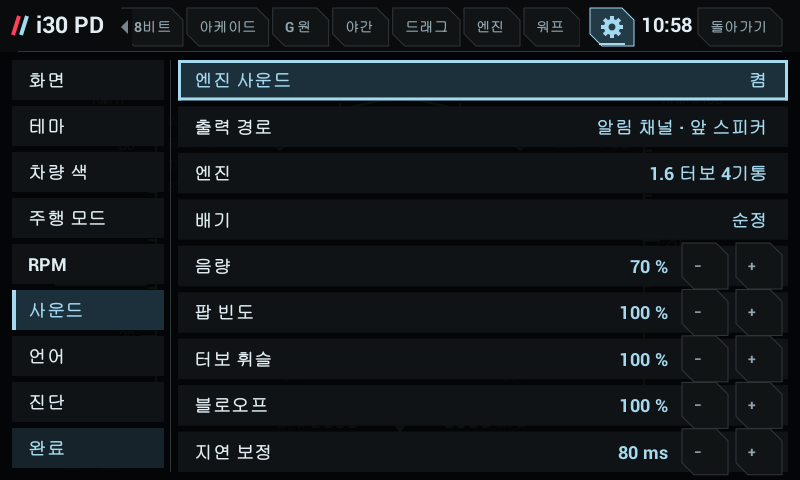
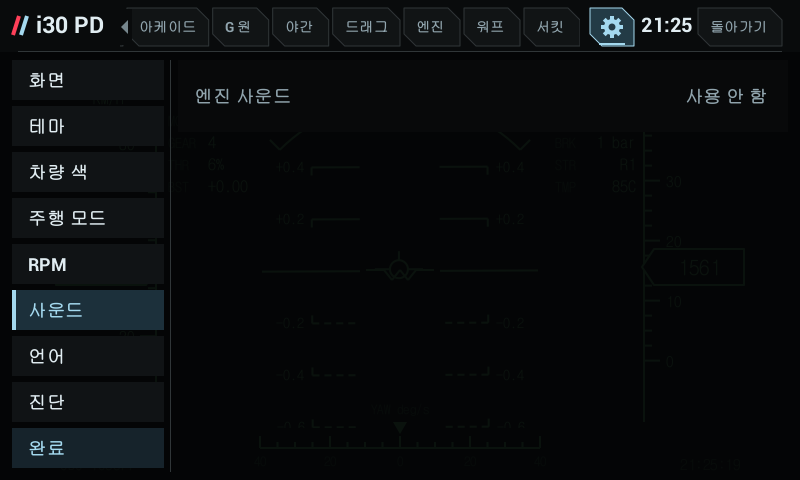
Diesel soot from 22 ED1D (Kia Ceed 2018 definition) leads the DPF tile; engine sound switched off
- ObdSchedule asks the engine 22 ED1D every 2 s (dropped after three misses on a petrol). Telemetry reads
  data [4..5] u16 x256/65535 as the soot load in g (new signal 68, DPF 포집량 / DPF SOOT), per OBDb's
  Kia-Ceed set, the only year (2018) it marks verified for these Hyundai diesel blocks. Tiles.dpfLead picks
  the DPF tile's big number: soot, else the regeneration trigger, else the delta pressure (race, engine,
  cluster tiles, F1). The probe also asks 22 ED06 (regeneration completed).
- The virtual engine sound is off (user): SettingsLayout.ENGINE_SOUND=false, the 사운드 pane is one dimmed
  "엔진 사운드 · 사용 안 함" line and a saved "on" no longer starts it. The code stays.

diff --git a/shared/src/com/veloster/vehicle/Telemetry.java b/shared/src/com/veloster/vehicle/Telemetry.java
@@ -10,6 +10,7 @@ public final class Telemetry {
     public static final int SPARK=42,BRAKE_SWITCH=43,STEER_TORQUE=44,DOOR_DRIVER=45,WIPER=46,DOOR_PASSENGER=47,TRUNK=48,HOOD=49,TURN_LEFT=50,TURN_RIGHT=51,SHIFT_HINT=52,HEAD_LAMP=53,TAIL_LAMP=54,HIGH_BEAM=55,CLUTCH=56,FUEL_LEVEL=57,CAT_TEMP=58,ABS_LOAD=59;
     public static final int DPF_DP=60,DPF_TEMP=61,DPF_REGEN=62,DPF_TRIGGER=63;   // diesel, standard OBD PIDs 0x7A/0x7C/0x8B
     public static final int DPF_SINCE_KM=64,DPF_AVG_KM=65;   // km since the last regeneration the app saw end; ECU average between regenerations
+    public static final int DPF_SOOT=68;   // diesel soot load, g: 22 ED1D (Kia Ceed CD 2018, the PD's sibling, in OBDb)
     public static final int CLUTCH_ODD=66,CLUTCH_EVEN=67;   // 7DCT clutch temperatures: #1 odd gears (1 3 5 7), #2 even gears (2 4 6 R); TCU 22 01A4
     /** DCT clutch heat for every screen: 0 normal, 1 warm (amber), 2 hot (red, the cell fills).
      *  ponytail: 150 / 180 °C are a guess (our car: 96 °C reversing after 11 min in town; owners report 145 in flat
@@ -20,8 +21,10 @@ public final class Telemetry {
     public static final int DID_CLUTCH=0x1A4;
     /** Sink key for the diesel engine's mode 22 DID ED03 reply (Hyundai DPF block; the standard DPF PIDs get no answer on a PD diesel). */
     public static final int DID_DPF=0xED03;
-    public static final String[] LABELS = {"엔진 회전수", "유온 (냉각수 대체)", "냉각수 온도", "앞 왼쪽 휠", "앞 오른쪽 휠", "뒤 왼쪽 휠", "뒤 오른쪽 휠", "차량 속도", "EMS 기어", "가속 페달", "브레이크 압력", "횡가속", "종가속", "조향각", "외기 온도", "출력 (계산)", "토크 (계산)", "부스트 (계산)", "앞 왼쪽 공기압", "앞 오른쪽 공기압", "뒤 왼쪽 공기압", "뒤 오른쪽 공기압", "TCS", "ESC", "ABS", "배터리 SOC", "배터리 전압", "조향 속도", "e-LSD 수치", "흡기 온도", "변속 레버", "주행거리", "엔진 부하", "요레이트", "주행 모드", "주차 브레이크", "스로틀 개도", "순간 연료소모", "주행가능거리", "평균 연비", "보정 토크", "마찰 토크", "점화 시기", "브레이크 스위치", "조향 토크", "운전석 문", "와이퍼", "조수석 문", "트렁크", "후드", "좌 방향지시등", "우 방향지시등", "변속 권장", "전조등", "미등", "상향등", "클러치 (수동)", "연료 잔량", "촉매 온도", "절대 부하", "DPF 차압", "DPF 온도", "DPF 재생", "DPF 재생 트리거", "DPF 재생 후 거리", "DPF 평균 재생 간격", "DCT 홀수단 클러치 온도", "DCT 짝수단 클러치 온도"};
-    public static final String[] UNITS = {"rpm", "°C", "°C", "km/h", "km/h", "km/h", "km/h", "km/h", "", "%", "bar", "G", "G", "°", "°C", "PS", "N·m", "bar", "psi", "psi", "psi", "psi", "", "", "", "%", "V", "°/s", "", "°C", "", "km", "%", "°/s", "", "", "%", "L/h", "km", "km/L", "%", "%", "°", "", "Nm", "", "", "", "", "", "", "", "", "", "", "", "", "%", "°C", "%", "kPa", "°C", "", "%", "km", "km", "°C", "°C"};
+    /** Sink key for 22 ED1D: the soot load (OBDb Kia-Ceed, verified there for 2018 only). */
+    public static final int DID_SOOT=0xED1D;
+    public static final String[] LABELS = {"엔진 회전수", "유온 (냉각수 대체)", "냉각수 온도", "앞 왼쪽 휠", "앞 오른쪽 휠", "뒤 왼쪽 휠", "뒤 오른쪽 휠", "차량 속도", "EMS 기어", "가속 페달", "브레이크 압력", "횡가속", "종가속", "조향각", "외기 온도", "출력 (계산)", "토크 (계산)", "부스트 (계산)", "앞 왼쪽 공기압", "앞 오른쪽 공기압", "뒤 왼쪽 공기압", "뒤 오른쪽 공기압", "TCS", "ESC", "ABS", "배터리 SOC", "배터리 전압", "조향 속도", "e-LSD 수치", "흡기 온도", "변속 레버", "주행거리", "엔진 부하", "요레이트", "주행 모드", "주차 브레이크", "스로틀 개도", "순간 연료소모", "주행가능거리", "평균 연비", "보정 토크", "마찰 토크", "점화 시기", "브레이크 스위치", "조향 토크", "운전석 문", "와이퍼", "조수석 문", "트렁크", "후드", "좌 방향지시등", "우 방향지시등", "변속 권장", "전조등", "미등", "상향등", "클러치 (수동)", "연료 잔량", "촉매 온도", "절대 부하", "DPF 차압", "DPF 온도", "DPF 재생", "DPF 재생 트리거", "DPF 재생 후 거리", "DPF 평균 재생 간격", "DCT 홀수단 클러치 온도", "DCT 짝수단 클러치 온도", "DPF 포집량"};
+    public static final String[] UNITS = {"rpm", "°C", "°C", "km/h", "km/h", "km/h", "km/h", "km/h", "", "%", "bar", "G", "G", "°", "°C", "PS", "N·m", "bar", "psi", "psi", "psi", "psi", "", "", "", "%", "V", "°/s", "", "°C", "", "km", "%", "°/s", "", "", "%", "L/h", "km", "km/L", "%", "%", "°", "", "Nm", "", "", "", "", "", "", "", "", "", "", "", "", "%", "°C", "%", "kPa", "°C", "", "%", "km", "km", "°C", "°C", "g"};
     public static final long STALE_MS = 60000; // UI freshness threshold, not an OEM timeout.
     public static final long HISTORY_MS=300000,HISTORY_STEP_MS=250;
     private final History[] history=new History[LABELS.length];
@@ -267,6 +270,9 @@ public final class Telemetry {
             // Hyundai diesel DPF block 62 ED 03 (OBDb Hyundai-i30, CC BY-SA 4.0, not yet seen on our side): data byte 36
             // differential pressure x4.31373 (hPa, so x0.431373 kPa), 38 exhaust temperature upstream of the DPF x4.7098 + 99 °C,
             // 45..48 distance since the last regeneration in metres. The ECU keeps that distance, so it beats our odometer count.
+            // 62 ED 1D (OBDb Kia-Ceed 2018): u16 at data bytes 4..5, x256/65535, read as grams (Hyundai's GDS shows soot in g;
+            // a newer Tucson NX4 tool reads the same bytes little-endian, so the raw reply in the log settles the order on a PD)
+            case DID_SOOT: if(n>=6)put(DPF_SOOT,u16(d,4)*256f/65535,true,now); break;
             case DID_DPF: if(n>=56){put(DPF_DP,(d[36]&255)*0.431373f,true,now);put(DPF_TEMP,(d[38]&255)*4.7098f+99,true,now);
                 put(DPF_SINCE_KM,(((long)u16(d,45)<<16)|u16(d,47))/1000f,true,now);} break;
             default: obd(pid,n>0?d[0]&255:0,n>1?d[1]&255:0,now);

diff --git a/shared/src/com/veloster/vehicle/Tiles.java b/shared/src/com/veloster/vehicle/Tiles.java
@@ -54,12 +54,12 @@ public final class Tiles {
         {10,43,35,22,23,24},
         {TIRES,18,19,20,21},
         {26,25,31,45,47,48,49,53,54,55,46,50,51},
-        {DPF,60,61,62,63,64,65}};
+        {DPF,68,60,61,62,63,64,65}};
     /** Whether this car has the signal: DPF only on a diesel, the clutch pedal only on a 6MT, the DCT clutch
      *  temperatures only on a DCT, no ignition timing on a diesel. */
     public static boolean available(int s,VehicleProfile p){
         boolean diesel=p.fuel==VehicleProfile.Fuel.DIESEL,mt=p.trans==VehicleProfile.Trans.MT;
-        if(s==DPF||s>=Telemetry.DPF_DP&&s<=Telemetry.DPF_AVG_KM)return diesel;
+        if(s==DPF||s>=Telemetry.DPF_DP&&s<=Telemetry.DPF_AVG_KM||s==Telemetry.DPF_SOOT)return diesel;
         if(s==Telemetry.CLUTCH)return mt;
         if(s==CLUTCH||s==Telemetry.CLUTCH_ODD||s==Telemetry.CLUTCH_EVEN)return !mt;
         if(s==Telemetry.SPARK)return !diesel;
@@ -91,7 +91,7 @@ public final class Tiles {
         "SOC","BATT","STEER RATE","E-LSD","INTAKE","SELECTOR","ODO","LOAD","YAW","MODE","PARK BRK","THROTTLE","FUEL FLOW","RANGE",
         "AVG","TQ CORR","TQ FRIC","SPARK","BRK SW","STR TORQUE","DOOR L","WIPER","DOOR R","TRUNK","HOOD","TURN L","TURN R","SHIFT",
         "HEADLAMP","TAIL","HIGH BEAM","CLUTCH","FUEL","CAT","ABS LOAD","DPF ΔP","DPF TEMP","DPF REGEN","DPF TRIG","DPF LAST","DPF AVG",
-        "CLUTCH ODD","CLUTCH EVEN"};
+        "CLUTCH ODD","CLUTCH EVEN","DPF SOOT"};
     public static String caption(int s){
         switch(s){case TIRES:return "TPMS";case CLUTCH:return "CLUTCH";case DPF:return "DPF";case CORNER_MIN_SPEED:return "BTM SPEED";case CORNER_MAX_LAT:return "PREV LAT G";}
         return s>=0&&s<CAPTION.length?CAPTION[s]:"—";
@@ -101,6 +101,11 @@ public final class Tiles {
         return Telemetry.UNITS[s];
     }
     /** The reading as text, "—" when there is none; on / off and gear style signals as their words. */
+    /** The DPF bundle's main reading: soot g (22 ED1D) when the engine gives it, else the regeneration trigger %
+     *  (01 8B), else the delta pressure kPa (ED03); the trigger ("—") when none has answered. */
+    public static int dpfLead(float soot,float trigger,float dp){
+        return !Float.isNaN(soot)?Telemetry.DPF_SOOT:!Float.isNaN(trigger)?Telemetry.DPF_TRIGGER:!Float.isNaN(dp)?Telemetry.DPF_DP:Telemetry.DPF_TRIGGER;
+    }
     public static String text(int s,float v){
         if(Float.isNaN(v))return "—";
         if(s<TIRES){String w=Telemetry.label(s,v);if(w!=null)return w;}
@@ -110,7 +115,7 @@ public final class Tiles {
         if(s==Telemetry.BOOST||s==11||s==12||s==CORNER_MAX_LAT)return "%+.2f";
         if(s==Telemetry.STEERING||s==Telemetry.STEER_TORQUE||s==Telemetry.YAW)return "%+.1f";
         String u=s>=TIRES?unit(s):Telemetry.UNITS[s];
-        if(s==10||"V".equals(u)||"L/h".equals(u)||"km/L".equals(u)||"kPa".equals(u))return "%.1f";
+        if(s==10||s==Telemetry.DPF_SOOT||"V".equals(u)||"L/h".equals(u)||"km/L".equals(u)||"kPa".equals(u))return "%.1f";
         return "%.0f";
     }
     /** 0 normal, 1 warm / low (amber), 2 critical (red). */
@@ -129,6 +134,7 @@ public final class Tiles {
         if(s==0){lo=0;hi=8000;}else if(s==1||s==2){lo=40;hi=120;}else if(s==Telemetry.INTAKE){lo=0;hi=80;}
         else if(s==Telemetry.AMBIENT){lo=-20;hi=40;}else if(s==Telemetry.CAT_TEMP){lo=0;hi=900;}
         else if(s==Telemetry.CLUTCH_ODD||s==Telemetry.CLUTCH_EVEN){lo=0;hi=250;}else if(s==Telemetry.DPF_TEMP){lo=0;hi=700;}
+        else if(s==Telemetry.DPF_SOOT){lo=0;hi=30;}else if(s==Telemetry.DPF_DP){lo=0;hi=50;}
         else if(s==Telemetry.BOOST){lo=-1;hi=1.5f;}else if(s==10){lo=0;hi=100;}else if(s==Telemetry.BAT_VOLTAGE){lo=10;hi=15;}
         else if(s>=Telemetry.TPMS_FL&&s<=Telemetry.TPMS_RR){lo=0;hi=45;}else if(s==11||s==12||s==CORNER_MAX_LAT){return Float.isNaN(v)?Float.NaN:Math.abs(v)/1.5f;}
         else if(s==7||s>=3&&s<=6||s==CORNER_MIN_SPEED){lo=0;hi=240;}else if("%".equals(unit(s))){lo=0;hi=100;}

diff --git a/shared/src/com/veloster/vehicle/PitRenderer.java b/shared/src/com/veloster/vehicle/PitRenderer.java
@@ -269,7 +269,8 @@ public final class PitRenderer {
                     name=i==SettingsLayout.RPM_SHIFT?"변속 목표":"레드라인";
                     sub=i==SettingsLayout.RPM_SHIFT?"레이스 SHIFT ▲ · F1 LED · 이름을 누르면 기본값":"SHIFT 경고 · 빨간 구간 · 이름을 누르면 기본값";break;
                 case SettingsLayout.SOUND:
-                    if(i==SettingsLayout.SOUND_ON){sel=soundOn;name="엔진 사운드";value=soundOn?"켬":"끔";}
+                    if(!SettingsLayout.ENGINE_SOUND){name="엔진 사운드";dim=true;value="사용 안 함";}
+                    else if(i==SettingsLayout.SOUND_ON){sel=soundOn;name="엔진 사운드";value=soundOn?"켬":"끔";}
                     else if(i==SettingsLayout.SOUND_ROUTE){name="출력 경로";dim=!soundOn;value=SettingsLayout.SOUND_ROUTES[soundRoute];}
                     else if(i==SettingsLayout.SOUND_ENGINE){name="엔진";dim=!soundOn;value=SettingsLayout.SOUND_ENGINES[soundEngine];}
                     else if(i==SettingsLayout.SOUND_EXHAUST){name="배기";dim=!soundOn;value=SettingsLayout.SOUND_EXHAUSTS[soundExhaust];}
@@ -562,9 +563,9 @@ public final class PitRenderer {
         int sig=Tiles.signal(Tiles.F1,i,profile);String txt;int lv=0;float size=22;
         if(sig==Tiles.TIRES){StringBuilder b=new StringBuilder();for(int k=0;k<4;k++){float x=clutchT(Telemetry.TPMS_FL+k);lv=Math.max(lv,Tiles.level(Telemetry.TPMS_FL+k,x));b.append(k>0?" ":"").append(Tiles.text(Telemetry.TPMS_FL+k,x));}txt=b.toString();size=16;}
         else if(sig==Tiles.CLUTCH){float o=clutchT(Telemetry.CLUTCH_ODD),e=clutchT(Telemetry.CLUTCH_EVEN);lv=Math.max(Telemetry.clutchLevel(o),Telemetry.clutchLevel(e));txt=Tiles.text(Telemetry.CLUTCH_ODD,o)+" / "+Tiles.text(Telemetry.CLUTCH_EVEN,e);size=18;}
-        else if(sig==Tiles.DPF){float tr=clutchT(Telemetry.DPF_TRIGGER),dp=clutchT(Telemetry.DPF_DP);boolean useDp=Float.isNaN(tr)&&!Float.isNaN(dp);
-            txt=useDp?Tiles.text(Telemetry.DPF_DP,dp):Tiles.text(Telemetry.DPF_TRIGGER,tr);lv=clutchT(Telemetry.DPF_REGEN)>0?1:0;
-            text(c,useDp?"kPa":"%",unitX,310,11,MUTED,false);}
+        else if(sig==Tiles.DPF){int k=Tiles.dpfLead(clutchT(Telemetry.DPF_SOOT),clutchT(Telemetry.DPF_TRIGGER),clutchT(Telemetry.DPF_DP));
+            txt=Tiles.text(k,clutchT(k));lv=clutchT(Telemetry.DPF_REGEN)>0?1:0;
+            text(c,Telemetry.UNITS[k],unitX,310,11,MUTED,false);}
         else{float v=Tiles.value(sig,samples,stats);lv=Tiles.level(sig,v);txt=Tiles.text(sig,v);}
         text(c,Tiles.caption(sig),capX,307,11,MUTED,true);
         boolean several=sig==Tiles.TIRES||sig==Tiles.CLUTCH;   // a longer line starts right after the caption, clear of the unit

diff --git a/tests/HscanPdTelemetryTest.java b/tests/HscanPdTelemetryTest.java
@@ -272,7 +272,7 @@ public final class HscanPdTelemetryTest {
         t.obd(0x2f,0x7f,0,3401);check(Math.abs(t.sample(Telemetry.FUEL_LEVEL,3401).value-49.8f)<0.5f,"fuel level ~50%");
         t.obd(0x3c,0x0b,0x54,3402);check(Math.abs(t.sample(Telemetry.CAT_TEMP,3402).value-250f)<1f,"catalyst temp ~250 C");
         t.obd(0x43,0x00,0x31,3403);check(Math.abs(t.sample(Telemetry.ABS_LOAD,3403).value-19.2f)<0.5f,"absolute load ~19%");
-        check(Telemetry.LABELS.length==Telemetry.UNITS.length&&Telemetry.LABELS.length==Telemetry.CLUTCH_EVEN+1,"label/unit tables cover the added signals");
+        check(Telemetry.LABELS.length==Telemetry.UNITS.length&&Telemetry.LABELS.length==Telemetry.DPF_SOOT+1,"label/unit tables cover the added signals");
         // diesel DPF PIDs (J1979-DA): a support byte first, only marked fields published; other PIDs fall through
         t.obd(0x7a,new byte[]{0x07,0x05,(byte)0xdc,0,0,0,0},3410);check(Math.abs(t.sample(Telemetry.DPF_DP,3410).value-15f)<0.01f,"DPF delta pressure 1500 x 0.01 = 15 kPa");
         t.obd(0x7a,new byte[]{0x07,(byte)0xff,(byte)0x9c,0,0,0,0},3411);check(Math.abs(t.sample(Telemetry.DPF_DP,3411).value+1f)<0.01f,"delta pressure is signed (-1 kPa)");
@@ -302,7 +302,10 @@ public final class HscanPdTelemetryTest {
         k.obd(Telemetry.DID_DPF,e,3440);
         check(Math.abs(k.sample(Telemetry.DPF_DP,3440).value-15.1f)<0.05f&&Math.abs(k.sample(Telemetry.DPF_TEMP,3440).value-372.2f)<0.1f
             &&Math.abs(k.sample(Telemetry.DPF_SINCE_KM,3440).value-123.4f)<0.01f,"ED03 delta pressure, temperature, distance since regeneration");
-        k.obd(Telemetry.DID_DPF,new byte[40],3441);check(k.sample(Telemetry.DPF_DP,3441).value>15,"a short ED03 reply leaves them alone");}
+        k.obd(Telemetry.DID_DPF,new byte[40],3441);check(k.sample(Telemetry.DPF_DP,3441).value>15,"a short ED03 reply leaves them alone");
+        // 22 ED1D soot (OBDb Kia-Ceed 2018): u16 at data 4..5 x256/65535 -> 0x1000 = 16.0 g; the soot leads the DPF tile
+        k.obd(Telemetry.DID_SOOT,new byte[]{0,0,0,0,0x10,0x00,0,0},3442);check(Math.abs(k.sample(Telemetry.DPF_SOOT,3442).value-16f)<0.01f,"ED1D soot 16.0 g");
+        check(com.veloster.vehicle.Tiles.dpfLead(16,Float.NaN,15)==Telemetry.DPF_SOOT&&com.veloster.vehicle.Tiles.dpfLead(Float.NaN,40,15)==Telemetry.DPF_TRIGGER&&com.veloster.vehicle.Tiles.dpfLead(Float.NaN,Float.NaN,15)==Telemetry.DPF_DP,"DPF lead: soot, trigger, pressure");}
         System.out.println("PASS "+checks+" i30 PD HSCAN model checks");
     }
     private static byte[] hex(String h){String[] p=h.trim().split(" ");byte[] b=new byte[p.length];for(int i=0;i<p.length;i++)b[i]=(byte)Integer.parseInt(p[i],16);return b;}

diff --git a/shared/src/com/veloster/vehicle/ClusterRenderer.java b/shared/src/com/veloster/vehicle/ClusterRenderer.java
@@ -119,8 +119,8 @@ public final class ClusterRenderer {
             return;
         }
         if(sig==Tiles.DPF){   // the regeneration trigger, or the delta pressure when the ECU gives only that
-            float tr=v(Telemetry.DPF_TRIGGER),dp=v(Telemetry.DPF_DP);boolean regen=v(Telemetry.DPF_REGEN)>0,useDp=Float.isNaN(tr)&&!Float.isNaN(dp);
-            meter(c,l,t,rr,b,regen?"DPF REGEN":"DPF",useDp?"kPa":"%",fmt(useDp?"%.1f":"%.0f",useDp?dp:tr),regen?AMBER:WHITE,useDp?dp/50:tr/100,regen?AMBER:hero,false);
+            int k=Tiles.dpfLead(v(Telemetry.DPF_SOOT),v(Telemetry.DPF_TRIGGER),v(Telemetry.DPF_DP));boolean regen=v(Telemetry.DPF_REGEN)>0;float x=v(k);
+            meter(c,l,t,rr,b,regen?"DPF REGEN":"DPF",Telemetry.UNITS[k],Tiles.text(k,x),regen?AMBER:WHITE,Tiles.fraction(k,x),regen?AMBER:hero,false);
             return;
         }
         float val=Tiles.value(sig,s,st);int lv=Tiles.level(sig,val);
@@ -138,7 +138,7 @@ public final class ClusterRenderer {
             mono(c,b.toString(),x+10,r[3]-18,24,lv==2?LCD_RED:lv==1?R_YELLOW:R_AMBER,Paint.Align.LEFT);return;}
         if(sig==Tiles.CLUTCH){float o=v(Telemetry.CLUTCH_ODD),e=v(Telemetry.CLUTCH_EVEN);int lv=Math.max(Telemetry.clutchLevel(o),Telemetry.clutchLevel(e));
             txt=fmt("%.0f",o)+"/"+fmt("%.0f",e);col=lv==2?LCD_RED:lv==1?R_YELLOW:R_AMBER;}
-        else if(sig==Tiles.DPF){float tr=v(Telemetry.DPF_TRIGGER),dp=v(Telemetry.DPF_DP);txt=Float.isNaN(tr)&&!Float.isNaN(dp)?fmt("%.1f",dp):fmt("%.0f",tr);if(v(Telemetry.DPF_REGEN)>0)col=R_YELLOW;}
+        else if(sig==Tiles.DPF){int k=Tiles.dpfLead(v(Telemetry.DPF_SOOT),v(Telemetry.DPF_TRIGGER),v(Telemetry.DPF_DP));txt=Tiles.text(k,v(k));if(v(Telemetry.DPF_REGEN)>0)col=R_YELLOW;}
         else{float val=Tiles.value(sig,s,st);int lv=Tiles.level(sig,val);txt=Tiles.text(sig,val);col=lv==2?LCD_RED:lv==1?R_YELLOW:R_AMBER;}
         mono(c,txt,x+10,r[3]-16,txt.length()>7?26:36,col,Paint.Align.LEFT);
     }

diff --git a/shared/src/com/veloster/vehicle/SettingsLayout.java b/shared/src/com/veloster/vehicle/SettingsLayout.java
@@ -15,6 +15,9 @@ public final class SettingsLayout {
     /** Shift beep sounds, in ShiftBeep.SOUNDS order. */
     public static final String[] BEEP_SOUNDS={"삐빅","삑","상승 3음","레이스 버저","틱틱"};
     /** Sound pane rows: the virtual engine sound switch, its output route (cycles), and its volume with − and +. */
+    /** Virtual engine sound switched off (user, 2026-11-04): the 사운드 pane shows one dimmed line and the sound never
+     *  starts, whatever was saved. ponytail: a flag, not a removal; true brings the pane and EngineSound back. */
+    public static final boolean ENGINE_SOUND=false;
     public static final int SOUND_ON=0,SOUND_ROUTE=1,SOUND_ENGINE=2,SOUND_EXHAUST=3,SOUND_VOLUME=4,SOUND_POP=5,SOUND_TURBO=6,SOUND_BOV=7,SOUND_LEAD=8;
     /** Rows from SOUND_VOLUME on have − and + (screenZone 1 and 2); the rest of the row puts the default back. */
     public static final int[] SOUND_MIN={10,0,0,0,0},SOUND_MAX={100,200,200,200,150},SOUND_STEP={10,10,10,10,10},SOUND_DEFAULT={70,100,100,100,80};
@@ -54,7 +57,7 @@ public final class SettingsLayout {
     /** Choices in a category's pane (완료 has none). */
     public static int count(int cat){
         switch(cat){case SCREENS:return ClusterPicker.COUNT;case THEME:return Theme.IDS.length;case PAINT:return CarPaint.IDS.length+1;   // the last tile is the 8-bit sky (Weather)
-            case MODE:return MODE_FIRST+ClusterPicker.MODES.length;case RPM:return RPM_BEEP_VOL+1;case SOUND:return SOUND_LEAD+1;case LANG:return LANGS.length;case DIAG:return 1;
+            case MODE:return MODE_FIRST+ClusterPicker.MODES.length;case RPM:return RPM_BEEP_VOL+1;case SOUND:return ENGINE_SOUND?SOUND_LEAD+1:1;case LANG:return LANGS.length;case DIAG:return 1;
             case PICK:return ClusterPicker.COUNT+1;default:return 0;}
     }
     public static int cols(int cat){return cat==SCREENS||cat==PICK?4:cat==THEME||cat==PAINT?2:1;}

diff --git a/shared/src/com/veloster/vehicle/VehicleDash.java b/shared/src/com/veloster/vehicle/VehicleDash.java
@@ -140,7 +140,7 @@ public final class VehicleDash extends View implements Runnable {
         try{SharedPreferences p=a.getSharedPreferences("pit_vehicle_ui",0);beepOn=p.getBoolean("shift_beep",false);
             beepSound=Math.max(0,Math.min(SettingsLayout.BEEP_SOUNDS.length-1,p.getInt("shift_beep_sound",0)));
             beepVol=Math.max(0,Math.min(100,p.getInt("shift_beep_vol",70)));}catch(ClassCastException e){/* off, first sound */}
-        try{SharedPreferences p=a.getSharedPreferences("pit_vehicle_ui",0);soundOn=p.getBoolean("engine_sound",false);
+        try{SharedPreferences p=a.getSharedPreferences("pit_vehicle_ui",0);soundOn=SettingsLayout.ENGINE_SOUND&&p.getBoolean("engine_sound",false);
             soundRoute=Math.max(0,Math.min(SettingsLayout.SOUND_ROUTES.length-1,p.getInt("engine_sound_route",0)));
             soundEngine=Math.max(0,Math.min(EngineSynth.engines()-1,p.getInt("engine_sound_engine",0)));
             soundExhaust=Math.max(0,Math.min(EngineSynth.exhausts()-1,p.getInt("engine_sound_exhaust",0)));
@@ -419,6 +419,7 @@ public final class VehicleDash extends View implements Runnable {
                     else{redline=d==0?0:ShiftGuide.clamp((int)prof.redline+d,prof.redlineMin,prof.redlineMax);VehicleProfile.setRedline(redline);e.putInt("redline",redline);}
                     break;}
                 case SettingsLayout.SOUND:
+                    if(!SettingsLayout.ENGINE_SOUND)break;
                     if(i==SettingsLayout.SOUND_ON)soundOn=!soundOn;
                     else if(i==SettingsLayout.SOUND_ROUTE)soundRoute=(soundRoute+1)%SettingsLayout.SOUND_ROUTES.length;
                     else if(i==SettingsLayout.SOUND_ENGINE)soundEngine=(soundEngine+1)%EngineSynth.engines();

diff --git a/shared/src/com/veloster/vehicle/RaceRenderer.java b/shared/src/com/veloster/vehicle/RaceRenderer.java
@@ -121,10 +121,10 @@ public final class RaceRenderer {
      *  small on the left; amber with DPF REGEN while one runs. Each reads "—" until the ECU answers (unconfirmed on a PD diesel). */
     private void dpf(Canvas c,float l,float t,float rr,float b){
         float tr=v(Telemetry.DPF_TRIGGER),dp=v(Telemetry.DPF_DP),tp=v(Telemetry.DPF_TEMP);boolean regen=v(Telemetry.DPF_REGEN)>0;int ink=regen?AMBER:WHITE;
-        // no trigger (the PD diesel answers only the Hyundai ED03 block): the delta pressure takes the big number
-        if(Float.isNaN(tr)&&!Float.isNaN(dp))cell(c,regen?"DPF REGEN":"DPF ΔP",fmt("%.1f",dp),"kPa",l,t,rr,b,24,ink);
-        else{cell(c,regen?"DPF REGEN":"DPF",fmt("%.0f",tr),"%",l,t,rr,b,24,ink);
-            text(c,"ΔP "+fmt("%.1f",dp),l+8,t+35,13,Float.isNaN(dp)?MUTED:ink,Paint.Align.LEFT);}   // delta pressure, kPa
+        // the big number: soot g, else the trigger %, else the delta pressure (Tiles.dpfLead); ΔP small unless it is the big one
+        int k=Tiles.dpfLead(v(Telemetry.DPF_SOOT),tr,dp);
+        cell(c,regen?"DPF REGEN":k==Telemetry.DPF_DP?"DPF ΔP":k==Telemetry.DPF_SOOT?"DPF SOOT":"DPF",Tiles.text(k,v(k)),Telemetry.UNITS[k],l,t,rr,b,24,ink);
+        if(k!=Telemetry.DPF_DP)text(c,"ΔP "+fmt("%.1f",dp),l+8,t+35,13,Float.isNaN(dp)?MUTED:ink,Paint.Align.LEFT);   // delta pressure, kPa
         // Top right (not while regenerating): km since the last regeneration, else the ECU's average between them;
         // with both, they take turns every 3 s.
         float since=v(Telemetry.DPF_SINCE_KM),avg=v(Telemetry.DPF_AVG_KM);

diff --git a/i30pd_port/app/preview/TabsPreview.java b/i30pd_port/app/preview/TabsPreview.java
@@ -52,7 +52,8 @@ public final class TabsPreview {
         race(out,"4c_race_mt_hint",rec,model,now,VehicleProfile.PETROL_MT,0,4); // the ECU's shift hint (▲4) on its red band
         race(out,"4c_race_diesel",rec,model,now,VehicleProfile.DIESEL_DCT,-1); // DPF slot instead of SPARK
         {Telemetry dz=new Telemetry();byte[] e=new byte[56];e[36]=35;e[38]=58;e[46]=1;e[47]=(byte)0xE2;e[48]=0x08;   // only the Hyundai ED03 block: 15.1 kPa, 372 C, 123.4 km
-         for(int n=0;n<=last;n++)feed(dz,raw.get(n),1_000_000+n*step);dz.obd(Telemetry.DID_DPF,e,now);race(out,"4c_race_diesel_ed03",rec,dz,now,VehicleProfile.DIESEL_DCT,-1);}
+         for(int n=0;n<=last;n++)feed(dz,raw.get(n),1_000_000+n*step);dz.obd(Telemetry.DID_DPF,e,now);race(out,"4c_race_diesel_ed03",rec,dz,now,VehicleProfile.DIESEL_DCT,-1);
+         dz.obd(Telemetry.DID_SOOT,new byte[]{0,0,0,0,0x0C,(byte)0xCD,0,0},now);race(out,"4c_race_diesel_soot",rec,dz,now,VehicleProfile.DIESEL_DCT,-1);}   // + 22 ED1D: 12.8 g leads the cell
         {byte[] ct=new byte[33];ct[30]=(byte)76;ct[32]=(byte)98;model.obd(Telemetry.DID_CLUTCH,ct,now);}   // 7DCT clutch temperatures odd 112 / even 156 C (TCU 22 01A4, x2-40)
         race(out,"4c_race_dct_clutch",rec,model,now,VehicleProfile.PETROL_DCT,-1); // odd / even clutch left of the brake, amber from 150 C
         model.obd(0x8b,new byte[]{0x11,0x01,(byte)0x9e,0,0,0,0},now);model.obd(0x7a,new byte[]{0x01,0x05,(byte)0xdc,0,0,0,0},now);model.obd(0x7c,new byte[]{0x01,0x19,0x64,0,0,0,0,0,0},now);   // standard DPF PIDs: regenerating, trigger 62 %, 15 kPa, 610 °C

diff --git a/shared/src/com/veloster/vehicle/ObdSchedule.java b/shared/src/com/veloster/vehicle/ObdSchedule.java
@@ -34,7 +34,8 @@ public final class ObdSchedule {
             new Poll(TCU,new byte[]{0x22,0x01,(byte)0xA4},Telemetry.DID_CLUTCH,1000,3),    // 7DCT clutch temperatures (a launch heats them in seconds); a 6MT has no TCU
             pid(0x3c,5000,0),                                                              // catalyst temperature
             pid(0x7a,2000,3),pid(0x7c,2000,3),pid(0x8b,2000,3),                            // diesel DPF (pressure moves during a regeneration); a petrol engine drops them
-            new Poll(EMS,new byte[]{0x22,(byte)0xED,0x03},Telemetry.DID_DPF,2000,3),       // Hyundai diesel DPF block (the PD diesel ignores the standard PIDs); a petrol EMS says 7F 31
+            new Poll(EMS,new byte[]{0x22,(byte)0xED,0x03},Telemetry.DID_DPF,2000,3),
+            new Poll(EMS,new byte[]{0x22,(byte)0xED,0x1D},Telemetry.DID_SOOT,2000,3),         // soot load g (Kia Ceed 2018 in OBDb); a petrol drops it       // Hyundai diesel DPF block (the PD diesel ignores the standard PIDs); a petrol EMS says 7F 31
             pid(0x46,30000,0),pid(0x2f,30000,0));                                          // ambient, fuel level
     }
     private static Poll pid(int pid,long every,int dropAfter){return new Poll(EMS,new byte[]{0x01,(byte)pid},pid,every,dropAfter);}

diff --git a/shared/src/com/veloster/vehicle/EngineCluster.java b/shared/src/com/veloster/vehicle/EngineCluster.java
@@ -26,8 +26,8 @@ final class EngineCluster extends ClusterKit {
         row(c,1,"MAP",fmt("%+.2f",boost),"bar",Float.isNaN(boost)?Float.NaN:(boost+1)/(top+1),!Float.isNaN(boost)&&boost>top*0.9f?AM:WH,(top*0.9f+1)/(top+1));
         if(prof.fuel==VehicleProfile.Fuel.DIESEL){float tr=v(Telemetry.DPF_TRIGGER);   // no ignition timing: the DPF regeneration trigger
             float dp=v(Telemetry.DPF_DP);int ink=v(Telemetry.DPF_REGEN)>0?AM:WH;
-            if(Float.isNaN(tr)&&!Float.isNaN(dp))row(c,2,"DPF",fmt("%.1f",dp),"kPa",dp/50,ink,Float.NaN);   // only the Hyundai ED03 block: delta pressure
-            else row(c,2,"DPF",fmt("%.0f",tr),"%",Float.isNaN(tr)?Float.NaN:tr/100,ink,Float.NaN);}
+            int k=Tiles.dpfLead(v(Telemetry.DPF_SOOT),tr,dp);float x=v(k);   // soot g, else trigger %, else delta pressure
+            row(c,2,"DPF",Tiles.text(k,x),Telemetry.UNITS[k],Tiles.fraction(k,x),ink,Float.NaN);}
         else row(c,2,"SPK",fmt("%+.1f",spark),"°",Float.isNaN(spark)?Float.NaN:(spark+15)/55,WH,Float.NaN);
         row(c,3,"IAT",fmt("%.0f",iat),"°C",Float.isNaN(iat)?Float.NaN:(iat-20)/60,!Float.isNaN(iat)&&iat>60?AM:WH,Float.NaN);
         row(c,4,"SPD",fmt("%.0f",spd),"km/h",Float.isNaN(spd)?Float.NaN:spd/260,WH,Float.NaN);

diff --git a/shared/src/com/veloster/vehicle/ObdLive.java b/shared/src/com/veloster/vehicle/ObdLive.java
@@ -40,7 +40,7 @@ public final class ObdLive {
         // diesel (OBDb Hyundai-i30): differential pressure E0F1, successful regenerations E0F2, KWP 21 06 regeneration state, 21 03 block
         {EMS,0x22,0xE0,0xF1},{EMS,0x22,0xE0,0xF2},{EMS,0x21,0x06},{EMS,0x21,0x03},
         // the live ED03 poll logs its drop only once, early, and the record keeps only the log tail: ask it here too
-        {EMS,0x22,0xED,0x03}};
+        {EMS,0x22,0xED,0x03},{EMS,0x22,0xED,0x06}};   // ED06: regeneration completed state (Kia Ceed 2018 in OBDb)
     private static final long PROBE_FIRST=20000,PROBE_EVERY=300000;private static final int PROBE_ROUNDS=24;
     private final List<String> coldProbe=new ArrayList<String>();
     private static final long REPLY_MS=300,SLOW_REPLY_MS=1200;   // a mode 01 PID is one frame; a mode 22 block (ED03 ~59 B, 01A4) is multi-frame and slower
